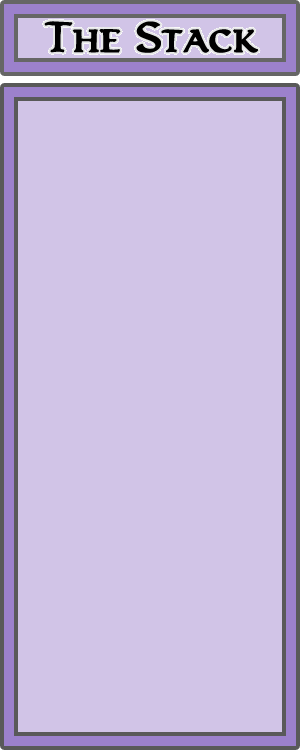
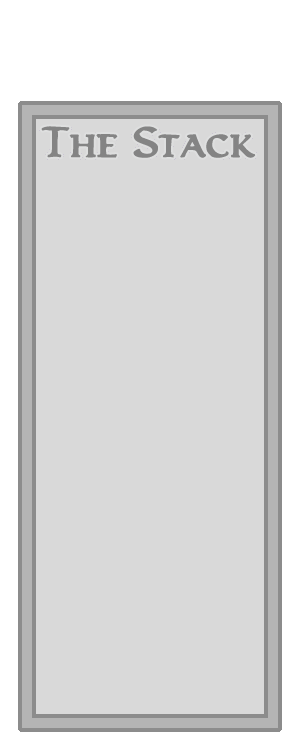
stack image is less intrusive, minor typo bug fixes - the Stack image is now transparent black, and a little smaller, and much more transparent - fixed typo bug where 'costetb' was formatted incorrectly - Emblems now align on bottom row with lands and planeswalkers - fixed card names not showing up 

diff --git a/magic.o8g/scripts/autoscript.py b/magic.o8g/scripts/autoscript.py
@@ -144,11 +144,11 @@ def submitTags(card, x = 0, y = 0):
 def morph(card, x = 0, y = 0):
     mute()
     if re.search(r"//", card.name) and card.Type != None and not re.search(r"Instant", card.Type) and not re.search(r"Sorcery", card.Type):
-      card.switchImage
       if re.search(r'DFC', card.Rarity):
         notify("{} transforms {}.".format(me, card))
       else:
         notify("{} flips {}.".format(me, card))
+      card.switchImage
     else:
       if card.isFaceUp == True:
         notify("{} morphs {} face down.".format(me, card))
@@ -187,9 +187,9 @@ def trigAbility(card, tagclass, pile):
             if count + cardcount(card, card, qty) < 0:
                 if not confirm("Not enough {} counters to remove!\nContinue?".format(markername)): return BREAK
     if 'tapped' in inittag and card.orientation == Rot90:
-        if not confirm("{} is already tapped!\nContinue?".format(card)): return BREAK
+        if not confirm("{} is already tapped!\nContinue?".format(card.name)): return BREAK
     if 'untapped' in inittag and card.orientation == Rot0:
-        if not confirm("{} is already untapped!\nContinue?".format(card)): return BREAK
+        if not confirm("{} is already untapped!\nContinue?".format(card.name)): return BREAK
     if 'cost' in inittag:
         for costtag in inittag['cost']:
             (cost, type) = costtag.split(', ')
@@ -306,7 +306,7 @@ def stackResolve(stackcard, type):
   if stackcard in cstack:
       del cstack[stackcard]
   if type == 'resolve' and stackcard.Type != None and not re.search(r'Instant', stackcard.Type) and not re.search(r'Sorcery', stackcard.Type):
-    if scriptMarkers['cost'] in stackcard.markers and getTags(stackcard, 'etbcost') != '':
+    if scriptMarkers['cost'] in stackcard.markers and getTags(stackcard, 'costetb') != '':
       newcard = table.create(stackcard.model, 0, 0, 1)
       newcard.markers[scriptMarkers['etb']] += 1
       newcard.markers[scriptMarkers['cost']] += stackcard.markers[scriptMarkers['cost']]
@@ -452,7 +452,7 @@ def cardalign():
         and not card._id in cattach]
   cardsort = sorted(tablecards, key=lambda card:(card.Type, card.name))
   for card in cardsort:
-      if re.search(r'Land', card.Type) or re.search(r'Planeswalker', card.Type):
+      if re.search(r'Land', card.Type) or re.search(r'Planeswalker', card.Type) or re.search(r'Emblem', card.Type):
         if len(card.markers) == 0 and not card._id in dict([(v, k) for k, v in cattach.iteritems()]):
           if not card.name in landdict or landdict[card.name] == 0:
             landdict[card.name] = 1

diff --git a/magic.o8g/scripts/actions.py b/magic.o8g/scripts/actions.py
@@ -518,7 +518,7 @@ def randomPick(group):
     mute()
     card = group.random()
     if card == None: return
-    notify("{} randomly picks {} from {}.".format(me, card, group))
+    notify("{} randomly picks {} from their {}.".format(me, card, group.name))
 
 def mulligan(group):
     mute()
